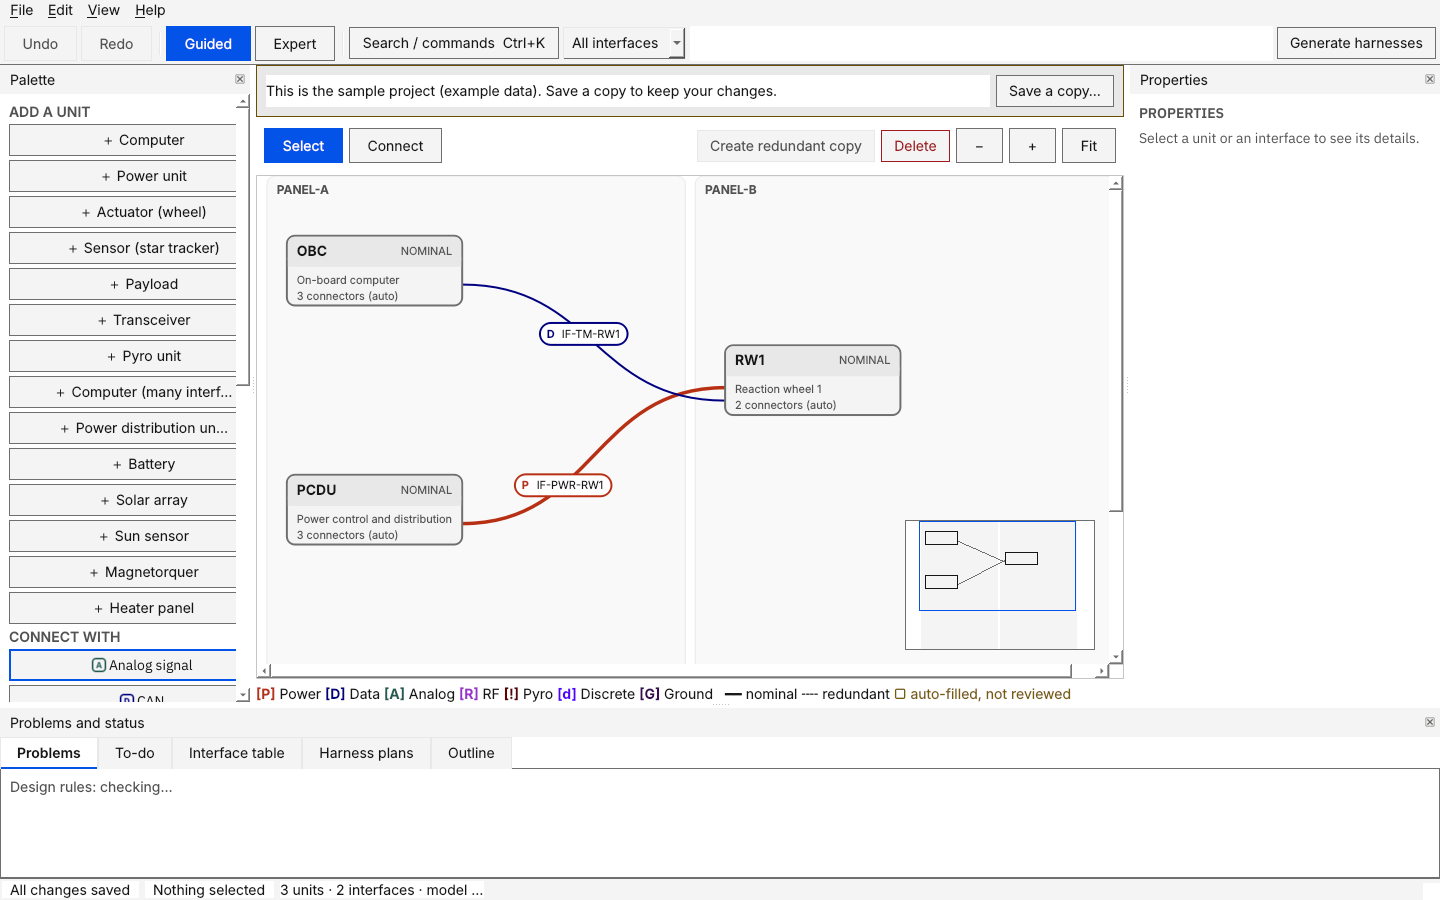
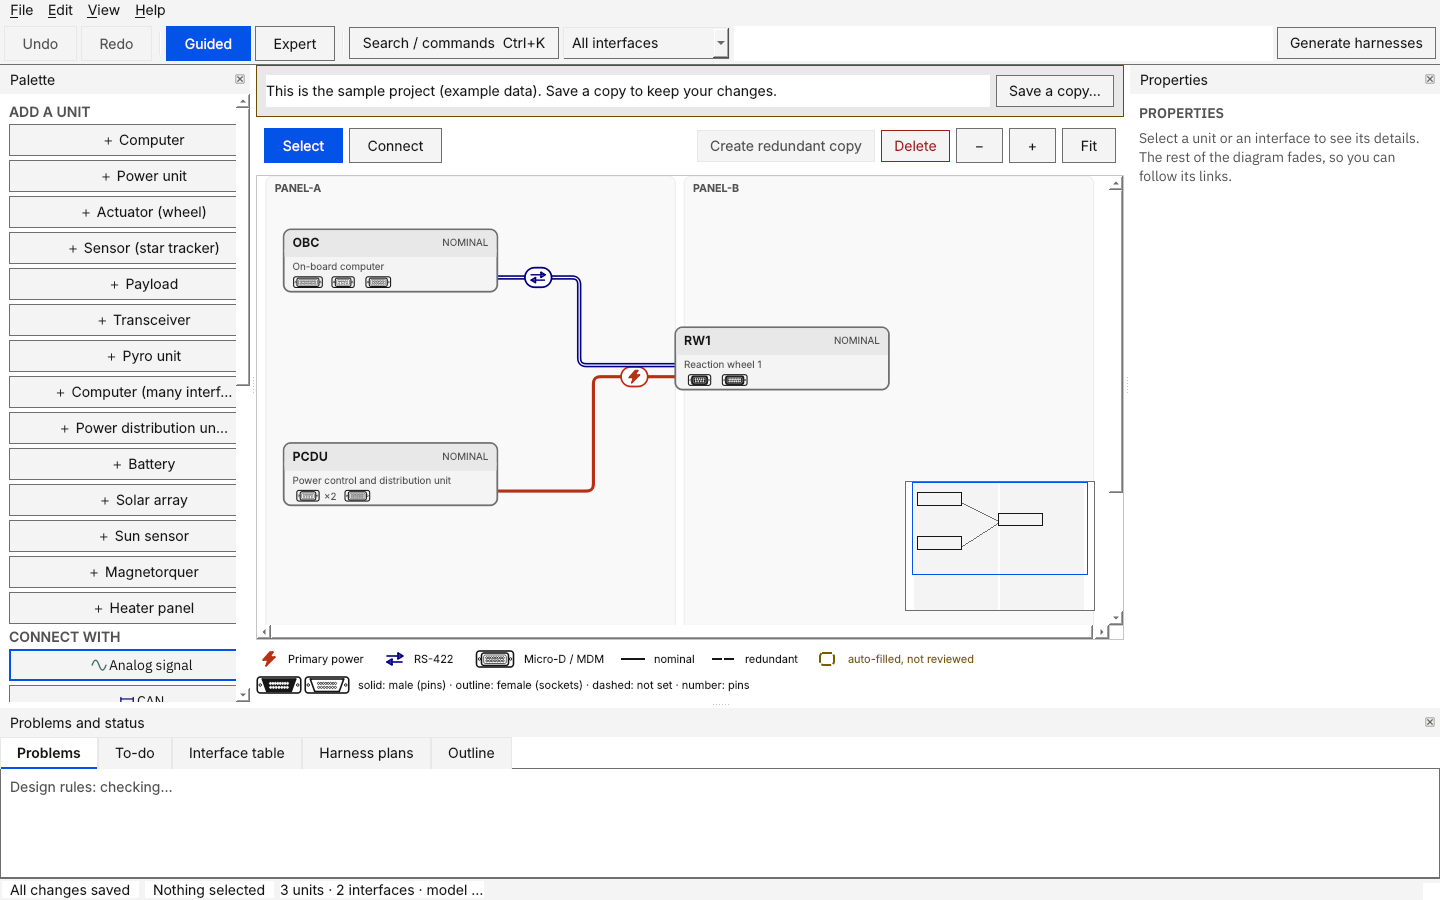
docs: regenerate the editor screenshots and the block diagram; first INSTALL corrections
The nine editor screenshots in docs/ux/qt predated the pictogram diagram (D-140) and
img/block-diagram.png carried the stamp of release candidate 0.1.0rc4. Re-rendered with
tools/gui_screenshots.py; INSTALL.md no longer says the CI artifact holds SHA256SUMS.

Claude-Session: https://claude.ai/code/session_01K7PmjFJdKvkUGQzZA5G9xT

diff --git a/harness/docs/INSTALL.md b/harness/docs/INSTALL.md
@@ -4,6 +4,8 @@ The tool runs on **Ubuntu 24.04 or newer** (64-bit, x86). It needs no network, n
 
 Pick **one** of the three ways. If you are unsure, use A.
 
+**Which version do you have?** The five examples (`minimal-satellite` and `flatsat` among them), the `design-worksheet.md` template, the wiring-diagram drawing with wire colours and *Edit > Wire colours...* are on `master` and are **not** in the released 0.1.0 packages (see [`CHANGELOG.md`](../CHANGELOG.md#unreleased-after-010)). `harness --version` prints `0.1.0` for both. To tell them apart run `harness new --list`: a newer build lists five examples, the 0.1.0 packages list three (`blank`, `first-steps`, `small-satellite`). Way C has them when you clone `master`. The other pages of this manual describe the newer build.
+
 | | You are | Way |
 | --- | --- | --- |
 | **A** | an engineer who wants to use the tool | install the `.deb` package |
@@ -27,10 +29,10 @@ You also need about 500 MB of free disk space for the program (`df -h ~` shows i
 
 You need one file, either `harness-design-studio_<version>_amd64.deb` (way A) or `harness-design-studio-<version>-linux-<arch>.tar.gz` (way B). Ask your tool administrator, or take it from one of these places:
 
-- the **Releases** page of the project's repository, when the packages are attached to the release (look for the newest version number);
-- the build artifacts of a CI run (Actions, then the run, then *Artifacts*): the artifact is called `harness-design-studio-ubuntu-24.04` and holds both files and a `SHA256SUMS` file.
+- the **Releases** page of the project's repository, when the packages are attached to the release (look for the newest version number). The release record says that attaching the files to the release page is up to the repository owner (`compliance/SIGNOFF.md`, section Publication); if the page lists no `.deb` or `.tar.gz`, use one of the other two places or way C;
+- the build artifacts of a CI run (Actions, then the run, then *Artifacts*): the artifact is called `harness-design-studio-ubuntu-24.04` and holds the `.deb`, the `.tar.gz` and the software bill of materials and licence report (no checksum file).
 
-You can also build it yourself (way C, last section).
+You can also build it yourself (way C, last section). That route needs no release files at all.
 
 Copy the file to the machine. It never needs to reach the network.
 
@@ -40,7 +42,7 @@ Copy the file to the machine. It never needs to reach the network.
 sha256sum harness-design-studio_<version>_amd64.deb
 ```
 
-The printed value must be the same as the one in the list. If it differs, do not install the file. The packages are not signed (this is a recorded deviation, `compliance/DEVIATIONS.md` T-19), so the checksum is the only check you have. A package built by CI is built again on another machine, so its checksum can differ from the recorded one; use the `SHA256SUMS` file that came in the same artifact.
+The printed value must be the same as the one in the list. If it differs, do not install the file. The packages are not signed (this is a recorded deviation, `compliance/DEVIATIONS.md` T-19), so the checksum is the only check you have. A package built by CI is built again on another machine, so its checksum can differ from the recorded one. For such a package compute the checksum yourself (`sha256sum`) on the machine that built it and compare it with the file you received; the recorded list applies to the packages named in it.
 
 ## A. The `.deb` package (recommended)
 
@@ -86,14 +88,18 @@ echo 'export PATH="$HOME/.local/bin:$PATH"' >> ~/.bashrc
 
 Other options of `install.sh`: `sudo ./install.sh --system` installs for everyone into `/usr/local/lib/harness-design-studio`; `--prefix FOLDER` chooses the folder. Remove with `./uninstall.sh` (or `sudo ./uninstall.sh --system`); it removes only what the installer put there.
 
-Run `install.sh` from the **unpacked package**. Run from the source tree it refuses, because the built program is missing there.
+Run `install.sh` from the **unpacked package**. Run from the source tree it refuses and prints: `This folder (...) has no built program, so there is nothing to install.`
 
 ## Check that it works
+
+For ways A and B (the installed program):
 
 ```
 harness --version          # prints the version
 harness-design-studio --selftest    # opens the editor offscreen, makes a project, generates, exports, and prints "selftest ok"
 ```
+
+`--selftest` exists only in the installed program (`harness-design-studio`). When you run from source (way C) the app command is `harness-gui`, which does not know the flag and simply starts the app. From source, check with `harness --version`, then the five-minute check below, and `pytest` if you installed the `dev` extras.
 
 Then start **Harness Design Studio** from the application menu. The first start opens a sample project and a short tour.
 
@@ -124,9 +130,9 @@ The `.deb` asks `apt` for these itself. More help: [`FAQ.md`](FAQ.md).
 | `E: Unable to locate package ./harness-design-studio_...` or `apt` cannot find the file | Run the command in the folder that holds the file, and keep the `./` in front of the name. |
 | `dpkg: dependency problems` | Run `sudo apt install -f`. It installs the missing system libraries from your normal Ubuntu sources (this is the only step that may need network). |
 | `harness: command not found` after the `.tar.gz` install | `~/.local/bin` is not on your PATH; see way B above. |
-| The app window is blank or the app closes at once | Run `harness-design-studio --selftest` in a terminal. If it prints an error about `xcb`, `libEGL` or `libxkbcommon`, install the libraries above. |
+| The app window is blank or the app closes at once | With way A or B, run `harness-design-studio --selftest` in a terminal. If it prints an error about `xcb`, `libEGL` or `libxkbcommon`, install the libraries above. |
 | You are connected by SSH and the app does not open | The app needs a screen. Use the `harness` command line tool over SSH, or start the app on the machine itself. |
-| `install.sh` says the built program is missing | You ran it from the source tree. Run it from the unpacked `.tar.gz` folder. |
+| `install.sh` says `This folder (...) has no built program, so there is nothing to install.` | You ran it from the source tree. Run it from the unpacked `.tar.gz` folder. |
 
 ## C. Run from source (developers)
 
